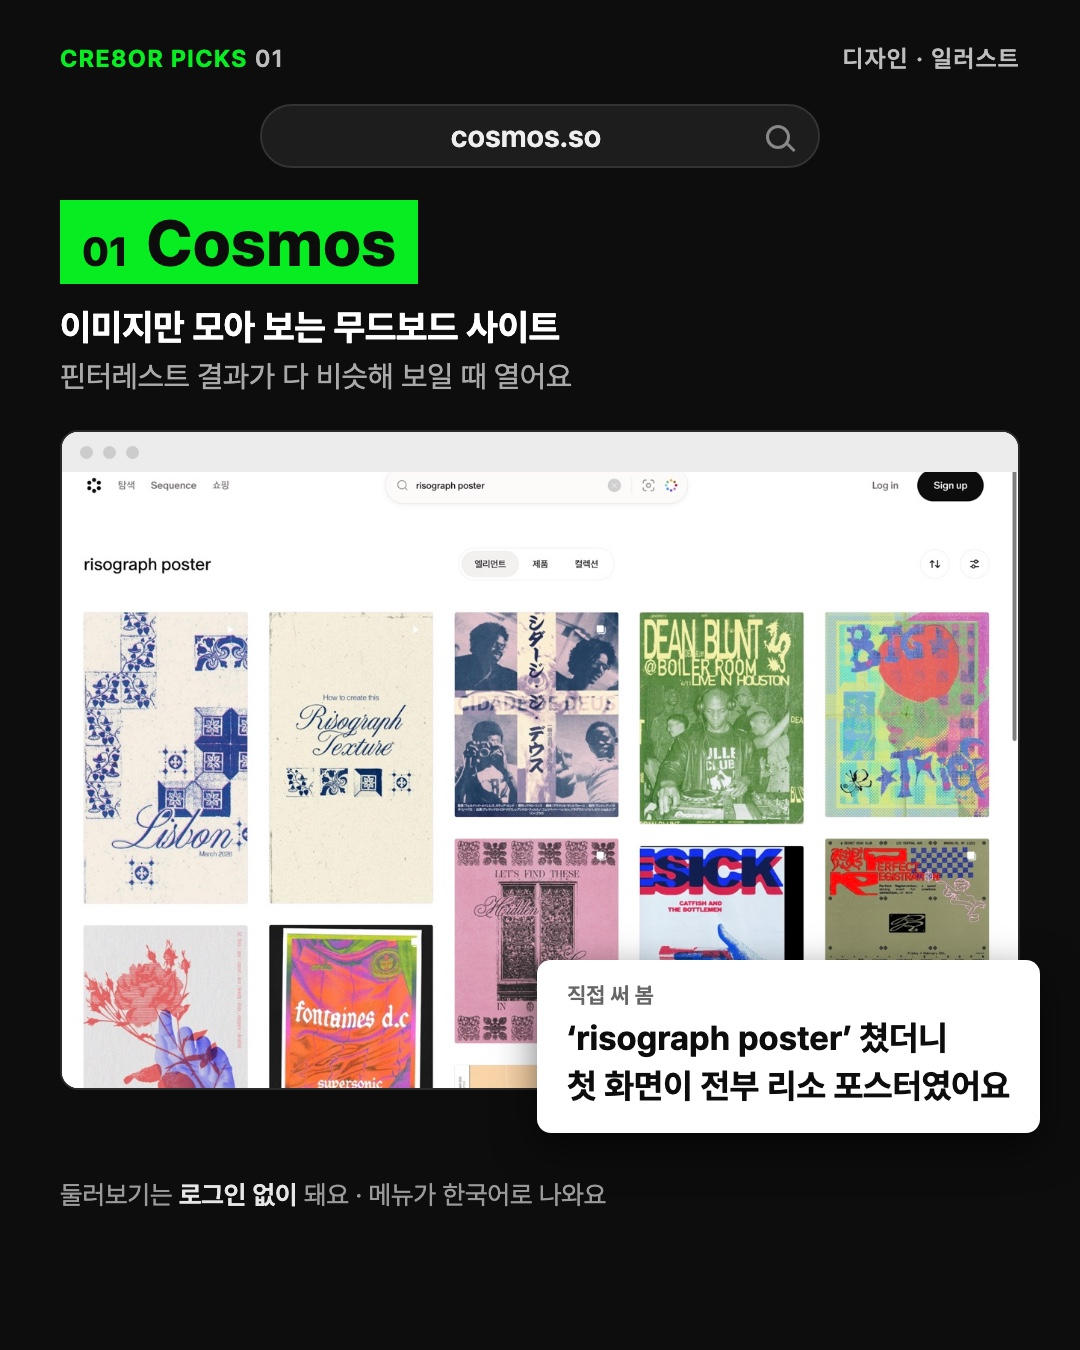
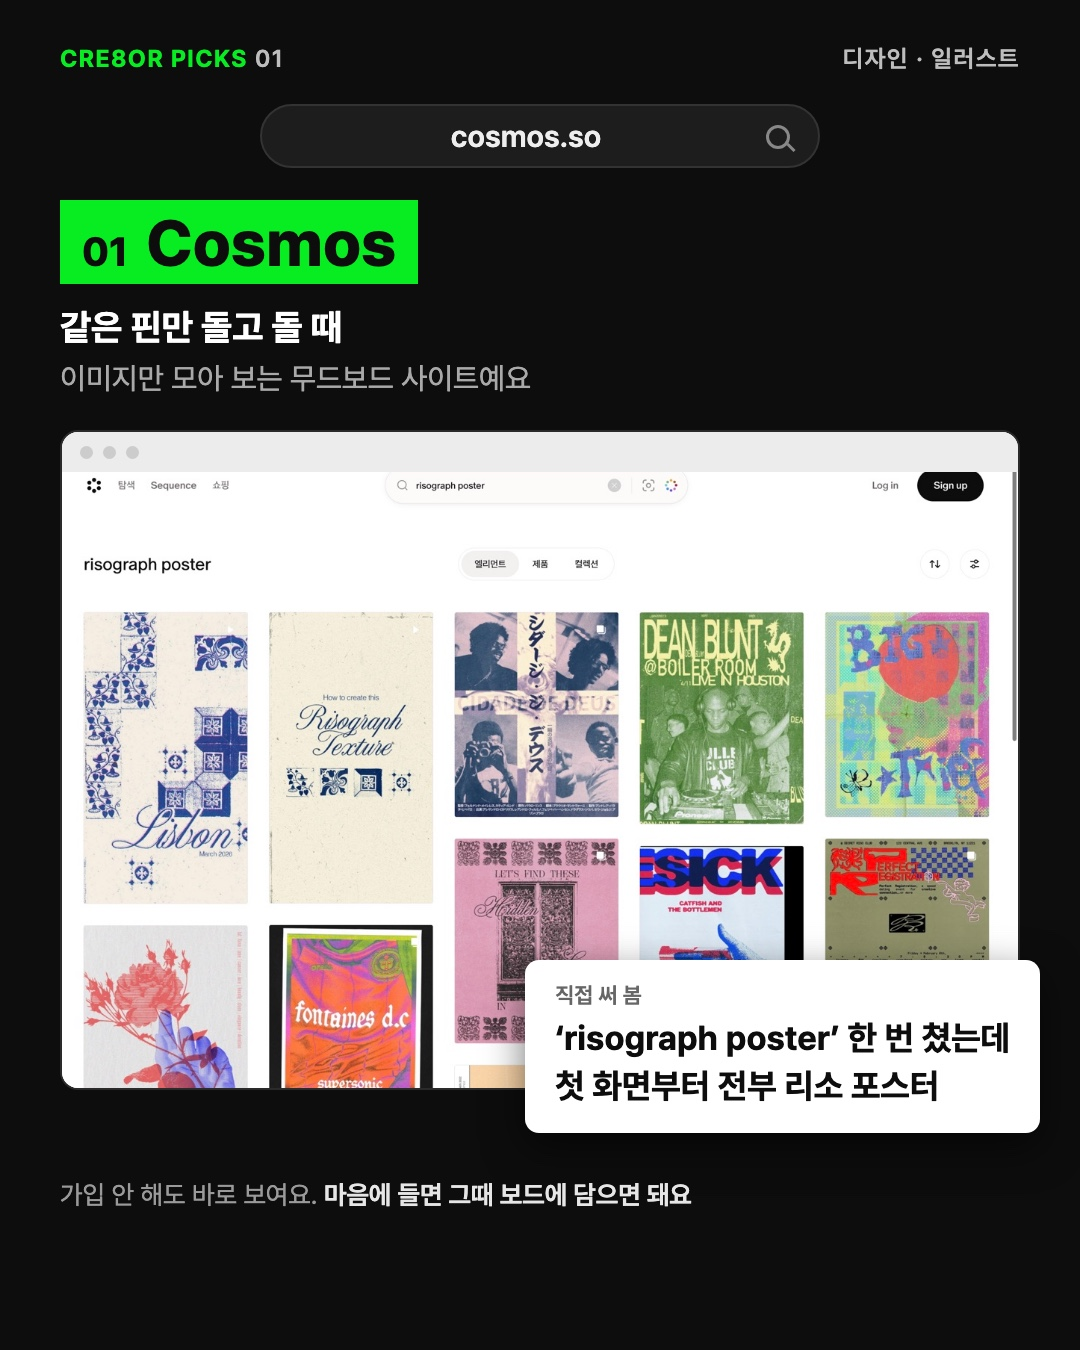
Deploy c8-insta-picks01-261030 → public-pages/ (redeploy, 2026-11-02)

Changed region(s): [[0.4583, 0.7156, 0.9472, 0.84], [0.0611, 0.2178, 0.5194, 0.3111], [0.0611, 0.8711, 0.6417, 0.9022]]

diff --git a/c8-insta-picks01-261030/index.html b/c8-insta-picks01-261030/index.html
@@ -47,9 +47,10 @@
 </head>
 <body>
 <div class="wrap">
-  <span class="tag">인스타 시안 · 팁 모음형 · CRE8OR PICKS 01 · 11/2 고침</span>
-  <div class="card" style="border:2px solid #07ED21"><h2>11/2 고친 것</h2><p>중간에 넣었던 위클리 베스트 광고 장을 뺐어요. 정보 전달 편이니 사이트 넷만 담백하게 보여 주고, 마지막 장의 크리에이터클럽 홍보 한 줄도 뺐어요. 7장 → 6장.</p></div>
-  <h1>작업 막힐 때 몰래 여는 사이트 4곳 풉니다</h1>
+  <span class="tag">인스타 시안 · 팁 모음형 · CRE8OR PICKS 01 · 11/2 두 번째 고침</span>
+  <div class="card" style="border:2px solid #07ED21"><h2>11/2 두 번째 고친 것 — 말 거는 방식</h2><p>반응 좋은 인스타 4편·스레드 3편을 다시 읽고 비교했어요. 잘된 글은 「발소리 하나 맞추느라 시간 날린 적 있죠」처럼 <b>독자가 겪는 순간</b>으로 시작하고, 제 글은 「직접 검색해 보고 골랐어요」「로그인 없이 돼요」처럼 <b>제가 한 일과 사양</b>으로 시작했어요. 그래서 장마다 첫 줄을 독자의 순간으로 바꾸고, 사이트 설명은 둘째 줄로 내렸어요. 마지막 질문도 「다음 편 분야」 대신 「여러분은 레퍼런스 어디서 찾아요?」로 바꿨어요.</p></div>
+  <div class="card"><h2>11/2 첫 번째 고친 것</h2><p>중간에 넣었던 위클리 베스트 광고 장을 뺐어요. 정보 전달 편이니 사이트 넷만 담백하게 보여 주고, 마지막 장의 크리에이터클럽 홍보 한 줄도 뺐어요. 7장 → 6장.</p></div>
+  <h1>핀터레스트 결과 다 비슷해 보이죠? 그럼 여기 4곳</h1>
   <p class="sub">2EZ 「레퍼런스 계정·사이트 모음」의 틀(한 장에 하나 · 검색창 · 실제 화면 · 써 본 한마디 · 끝 저장)을 빌려 창작자용으로 만들었어요. 네 곳 모두 젠지가 10/30에 직접 열어 검색해 봤고, 장 안 화면은 그때 찍은 실제 화면이에요. 아직 시안이고 인스타에는 올리지 않았어요.</p>
   <div class="row">
     <div>
@@ -65,16 +66,16 @@
           <span class="count" id="count">1/6</span>
         </div>
         <div class="acts"><span>♡</span><span>💬</span><span>↗</span><span class="s">⌑</span></div>
-        <div class="cap"><b>cre8orclub</b>작업 막힐 때 몰래 여는 사이트 4곳이에요.
-전부 직접 검색해 보고 골랐어요.
+        <div class="cap"><b>cre8orclub</b>핀터레스트 결과 다 비슷해 보일 때 있죠.
+그럴 때 여는 레퍼런스 사이트 4곳이에요. 검색어 하나씩 넣어 본 결과를 그대로 담았어요.
 
-01 Cosmos · 이미지만 모아 보는 무드보드
-02 Fonts In Use · 폰트가 실제로 쓰인 작업 모음
-03 FILMGRAB · 영화 장면 스틸 모음
-04 Public Domain Review · 저작권 끝난 옛 그림
+01 Cosmos · ‘risograph poster’ 한 번에 첫 화면이 전부 리소 포스터
+02 Fonts In Use · ‘hangul’ 치면 한글 폰트 쓴 실제 작업 180개
+03 FILMGRAB · 영화 제목만 치면 장면 스틸이 수십 장
+04 Public Domain Review · 저작권 끝난 옛 그림 모음
 
-필요할 때 다시 보게 저장 📌
-다음 PICKS는 어느 분야로 할까요? 댓글에 분야 하나만요.
+필요할 때 꺼내 보게 저장 📌
+여러분은 레퍼런스 어디서 찾아요? 한 곳만 댓글로 알려 주세요.
 #크리에이터클럽 #CRE8ORPICKS #레퍼런스 #레퍼런스사이트 #무드보드 #디자인레퍼런스 #타이포그래피 #영상레퍼런스</div>
       </div>
       <p class="hint">사진을 옆으로 밀거나 ‹ › 를 누르면 6장을 넘겨 볼 수 있어요</p>
